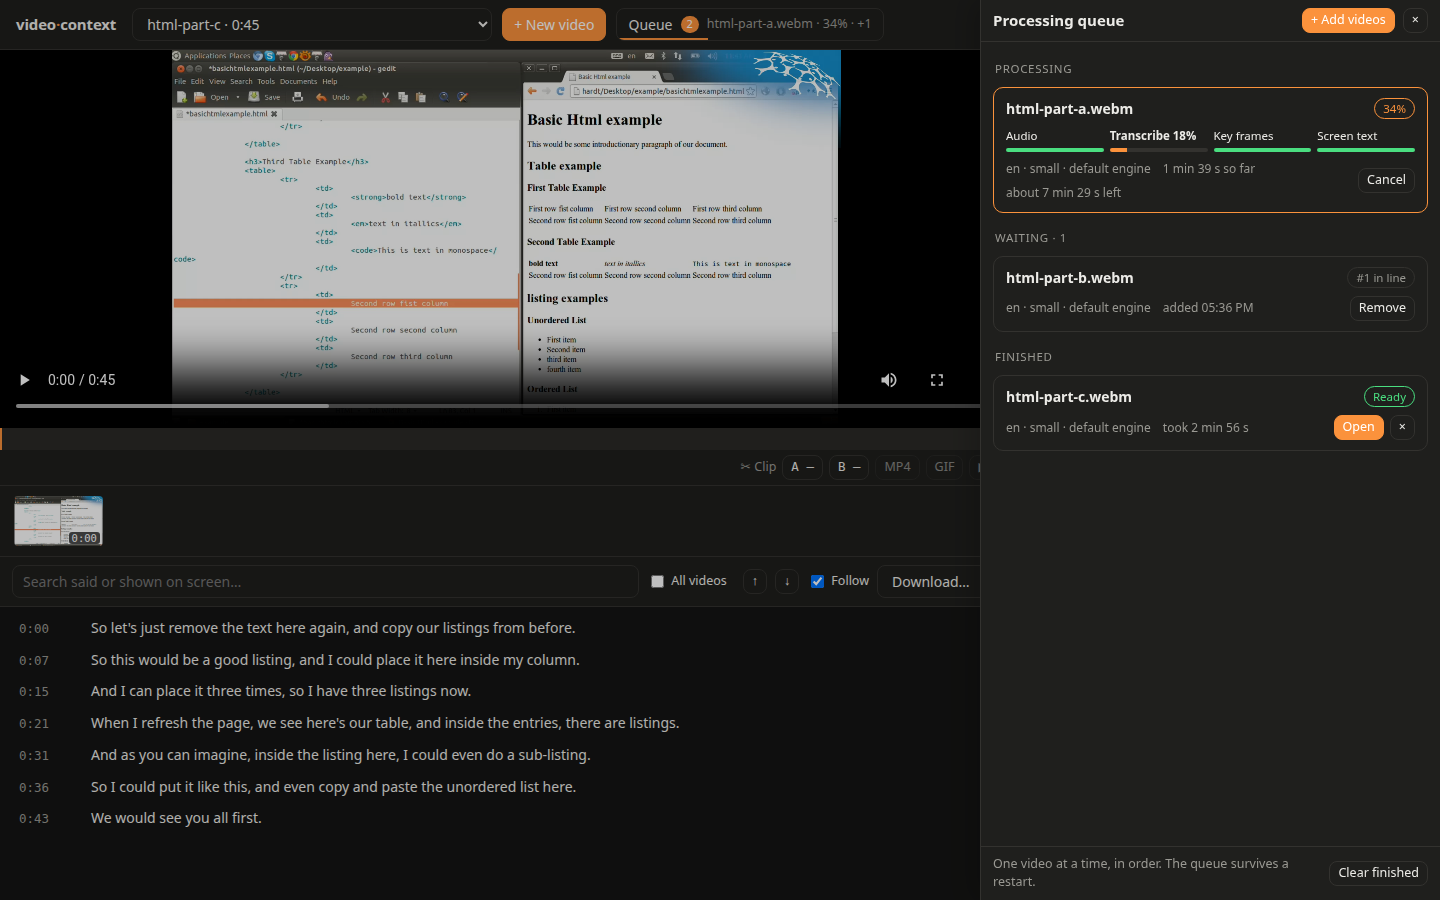
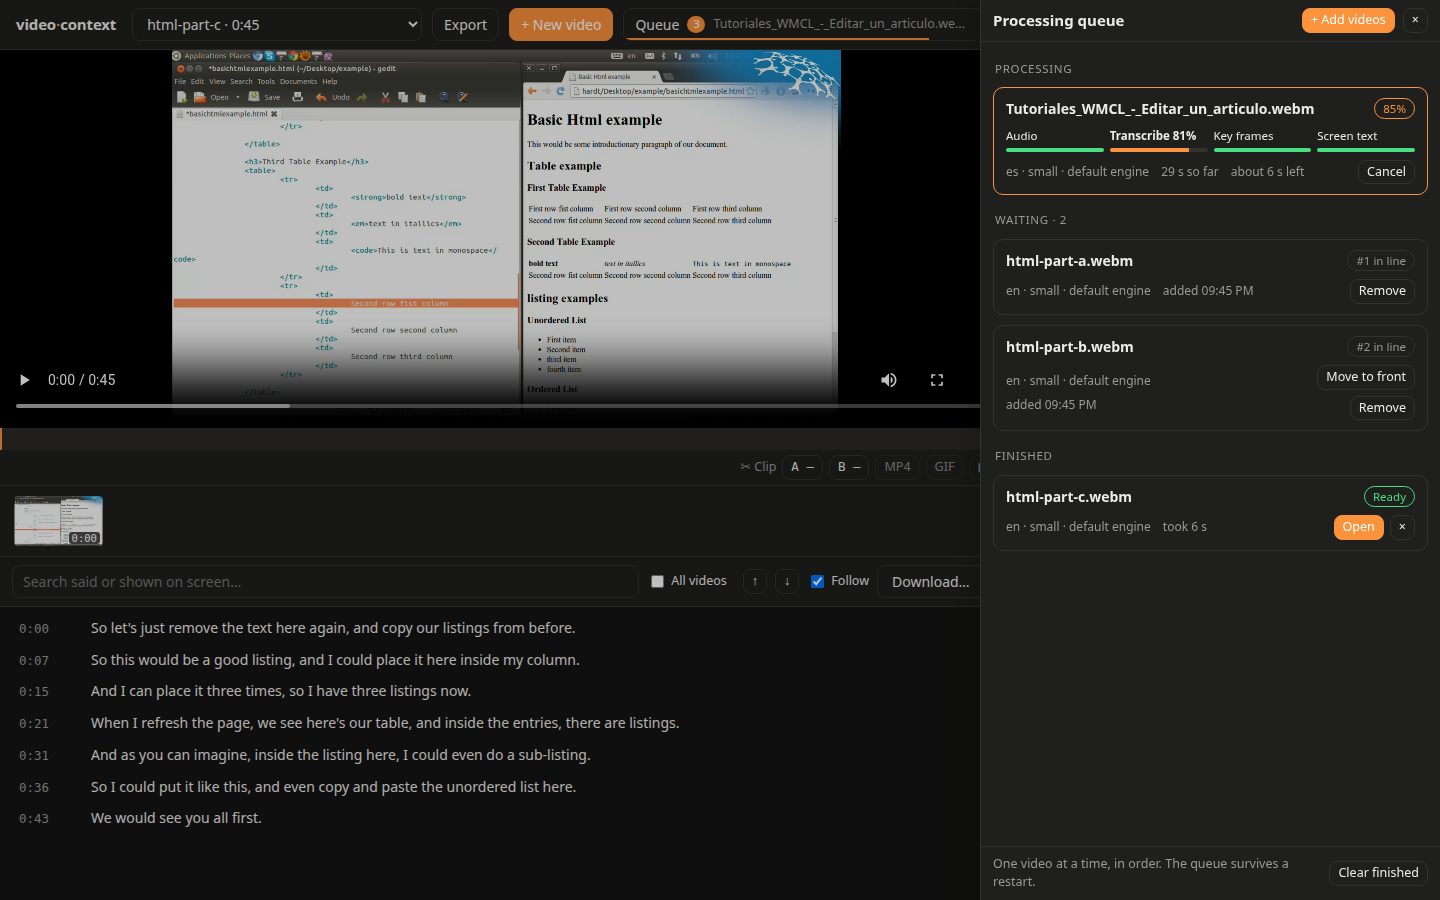
Docs: the queue, resuming, logs, export and import, with screenshots
docs/ui.md gains sections on adding videos (and importing), the queue,
what happens when processing stops halfway, the logs with the messages
that say what to fix, export and import, and where things are on disk.
New screenshots show two Wikimedia Commons videos: the HTML screencast
(CC BY-SA 3.0) and Wikimedia Chile's Spanish tutorial "Tutoriales WMCL -
Editar un artículo" (CC BY-SA 4.0), credited in the page.

The log file's path shows as ~/… in the page; an import that is not an
export logs its file instead of a stack.

diff --git a/src/ui.ts b/src/ui.ts
@@ -9,6 +9,7 @@ import { createReadStream, createWriteStream, existsSync, mkdirSync, readFileSyn
 import { createServer, type IncomingMessage, type ServerResponse } from 'node:http'
 import { basename, dirname, extname, join, normalize, resolve } from 'node:path'
 import { pipeline } from 'node:stream/promises'
+import { homedir } from 'node:os'
 import { fileURLToPath } from 'node:url'
 import { parseArgs } from 'node:util'
 
@@ -404,7 +405,7 @@ async function route(req: IncomingMessage, res: ServerResponse): Promise<void> {
   if (parts[0] !== 'api') return json(res, 404, { error: 'Not found.' })
 
   if (req.method === 'GET' && parts[1] === 'config' && parts.length === 2)
-    return json(res, 200, { claudeModels: CLAUDE_MODELS, whisperModels: MODELS, engines: ENGINES, claude: Boolean(claudeBinary()), logFile: LOG_FILE })
+    return json(res, 200, { claudeModels: CLAUDE_MODELS, whisperModels: MODELS, engines: ENGINES, claude: Boolean(claudeBinary()), logFile: LOG_FILE.startsWith(homedir()) ? `~${LOG_FILE.slice(homedir().length)}` : LOG_FILE })
 
   if (req.method === 'GET' && parts[1] === 'videos' && parts.length === 2)
     return json(res, 200, listVideos().map((m) => ({ id: m.id, title: m.title, duration: m.duration, createdAt: m.createdAt, source: m.source, available: existsSync(m.source) })))
@@ -518,7 +519,7 @@ async function route(req: IncomingMessage, res: ServerResponse): Promise<void> {
       return json(res, 200, result)
     } catch (error) {
       const message = error instanceof Error ? error.message : String(error)
-      log.error('import', `Could not import ${basename(file)}: ${message}`, error instanceof Error ? error.stack : undefined)
+      log.error('import', `Could not import ${basename(file)}: ${message}`, file)
       return json(res, 400, { error: message })
     }
   }

diff --git a/docs/ui.md b/docs/ui.md
@@ -5,11 +5,17 @@ npx -p @lalohao/video-context video-context-ui --open
 ```
 
 It opens `http://localhost:4317` (`--port` picks another) and lists the videos already
-processed, newest first. The screenshots below show
-[the screencast of the example](../examples/README.md),
-[Basic Introduction to HTML](https://commons.wikimedia.org/wiki/File:Basic_Introduction_to_HTML.webm)
-(© Renepick, [CC BY-SA 3.0](https://creativecommons.org/licenses/by-sa/3.0/); the screenshots
-are under the same license), with real answers from Claude Sonnet.
+processed, newest first.
+
+The screenshots below show two videos from Wikimedia Commons, with real results and real
+answers from Claude Sonnet; each screenshot is under the license of the video it shows:
+
+- [Basic Introduction to HTML](https://commons.wikimedia.org/wiki/File:Basic_Introduction_to_HTML.webm)
+  (the screencast of [the example](../examples/README.md); © Renepick,
+  [CC BY-SA 3.0](https://creativecommons.org/licenses/by-sa/3.0/)), in English, and pieces of it.
+- [Tutoriales WMCL - Editar un artículo](https://commons.wikimedia.org/wiki/File:Tutoriales_WMCL_-_Editar_un_art%C3%ADculo.webm)
+  (© Wikimedia Chile and Canzu Animation Studios,
+  [CC BY-SA 4.0](https://creativecommons.org/licenses/by-sa/4.0/)), in Spanish.
 
 ## Watch, read and ask
 
@@ -67,73 +73,121 @@ transcript and in the **Chapters** tab; the current one is named under the playe
   the deadline?"*). Claude finds the videos with the `search_videos` tool and cites each moment
   with the video's label, `[V2 0:19]`: the link opens that video there.
 
-## Processing videos: the queue
+## Adding videos
 
-![The queue: one video processing with the progress of each step, one waiting and one ready](images/ui-queue.png)
+![The dialog: a video to process and an export to import, with the spoken language, the whisper model and the engine](images/ui-new-video.png)
 
-**+ New video** adds videos to the queue: files dropped on the dialog (several at once; they
-are copied to `~/.cache/video-context/uploads`) or paths on this computer, one per line, with
-the spoken language, the whisper model and the engine. Videos are processed one at a time, in
-order, since whisper already uses every core.
+**+ New video** takes files dropped on the dialog (several at once; they are copied to
+`~/.cache/video-context/uploads`) or paths on this computer, one per line, with the spoken
+language, the whisper model and the engine. A video or audio file goes to the processing
+queue; a video-context export (`.zip`, see [below](#export-and-import)) is imported as it is,
+with nothing to process. A file already processed is ready at once (tick **Process again** to
+do it anyway).
 
-The **Queue** button at the top (or `Q`) says how many are left and how far the current one
-is, and opens the queue:
+## The queue
 
-- The video **processing** shows each step — the audio (or a model download), the
-  transcription, the key frames and the text on screen — with its progress, the time so far
+![The queue: a Spanish tutorial transcribing at 81 % with its steps and the time left, two pieces waiting, one ready](images/ui-queue.png)
+
+Videos are processed one at a time, in order, since whisper already uses every core. The
+**Queue** button at the top (or `Q`) says how many are left and how far the current one is
+(`Tutoriales_WMCL… · 85% · +2`), and opens the queue:
+
+- The video **processing** shows its four steps — the audio (or a model download), the
+  transcription, the key frames, the text on screen — each with its progress, the time so far
   and an estimate of the time left. **Cancel** stops it.
 - Videos **waiting** show their place in line: **Move to front** or **Remove**.
-- **Finished** ones: **Open** a ready video, **Retry** a failed one (its error is shown) or
-  **Process again** a canceled one. **Clear finished** empties that part of the list.
+- **Finished** ones: **Open** a ready one, **Retry** a failed one (its error is shown, and
+  **Logs** opens its entries), **Process again** a canceled one. **Clear finished** empties
+  that part of the list.
 
-A video already processed is ready at once. A message says when each video is ready (and
-opens it if none is open). The queue is kept in `~/.cache/video-context/queue.json`: if the
-page's server stops, the video that was processing starts again, and the rest wait their turn.
+A message says when each video is ready, and opens it if none is open. The queue is kept in
+`~/.cache/video-context/queue.json`: closing the page changes nothing, and if the server
+stops, the video that was processing starts again when it starts, and the rest wait their turn.
 
-A video that stopped halfway (the server died or was closed, or it was canceled) does not
-start over: the steps it finished are kept in its folder until it is done — the audio, the
-transcript, the key frames and their text — and only the rest is done again, as long as the
-language, the model and the engine are the same. A transcription stopped in the middle is
-done again from its start. If the server died, the tools it left running (ffmpeg, whisper)
-are stopped when it starts again.
+### When processing stops halfway
+
+A video that stopped halfway — the server crashed or was closed, or it was canceled — does not
+start over. The steps it finished stay in its folder until it is done (the audio, the
+transcript, the key frames and their text), and the next attempt only does the rest:
+
+```
+Tutoriales_WMCL….webm was processing when the server stopped: it starts again from the steps it finished
+Tutoriales_WMCL….webm: Audio kept from the last attempt.
+Tutoriales_WMCL….webm: Transcribing…
+Tutoriales_WMCL….webm: Key frames kept from the last attempt.
+Tutoriales_WMCL….webm: Text on screen kept from the last attempt.
+```
+
+They are kept only for the same language, whisper model and engine; with others it starts
+over. A transcription stopped in the middle is done again from its start (whisper cannot go
+on from where it was). If the server crashed, the tools it left running (ffmpeg, whisper,
+tesseract) are stopped when it starts again, after checking they are still those tools.
 
 ## Logs
 
-The **Logs** button at the top (or `Shift+L`) opens what the server did and what failed:
-processing steps, chapters, chat questions, clips and uploads. A red count says how many
-errors are new. Filter by level, by source or by text; an entry with details (Claude's
-answer, a tool's error output) opens with a click, and **Copy** takes the entries shown.
-Errors in the page link to their entries ("See the logs"). Everything is also written to
-`~/.cache/video-context/logs/ui.log`.
+![The logs: each video's steps, the chapters made by Claude with their cost, and a failed import](images/ui-logs.png)
 
-When Claude cannot answer, the error says why, and what to do when it can be fixed: an expired
-session is solved with `claude auth login` in a terminal.
+The **Logs** button at the top (or `Shift+L`) shows what the server did and what failed:
+the steps of each video, chapters, chat questions and answers (with their time and cost),
+clips, uploads, exports and imports. A red count on the button says how many errors are new.
+Filter by level, by source or by text; an entry with details — Claude's answer, a tool's
+error output — opens with a click, and **Copy** takes the entries shown (to paste in an
+issue). Errors in the page link to their entries (**See the logs**). Everything is also
+written to `~/.cache/video-context/logs/ui.log`, which outlives the server.
+
+When something fails, the message says why, and what to do when it can be fixed:
+
+| Message | What to do |
+| --- | --- |
+| `Failed to authenticate: OAuth session expired…` | Sign in to Claude again: `claude auth login` in a terminal. |
+| `…rate limit…` / `…usage limit…` | Wait a moment, or pick another model at the top. |
+| `ffprobe failed … Invalid data found when processing input` | The file is not a video or audio file ffmpeg reads, or it is damaged. |
+| `Missing: …` | A tool is not installed: run `video-context --doctor`. |
+| `This ZIP file is not a video-context export` | Only ZIP files made with **Export** can be imported. |
 
 ## Export and import
 
-![An exported video opened from its folder: no server, no Claude, the rest as in the page](images/ui-export.png)
+![The Spanish tutorial exported and opened from its folder: its chapters, notes, frames and transcript, without a server](images/ui-export.png)
 
-**Export** (at the top) downloads the open video as a ZIP file, to hand to someone who then
-needs nothing processed. Inside one folder:
+**Export** (at the top) downloads the open video as one ZIP file, to hand to someone who then
+needs nothing processed — no whisper, no waiting. The archive holds one folder:
 
 | File | What it is |
 | --- | --- |
 | `index.html` | This page with the video's data inside: open it from the folder, in any browser. Nothing to install, no server. |
 | `video.<ext>` | The video. |
-| `transcript.md`, `.srt`, `.json` | The transcript with its times. |
+| `transcript.md`, `.srt`, `.json` | The transcript with its times (the `.srt` works in any player). |
 | `frames/` | The key frames. |
 | `chapters.json`, `notes.json` | The chapters and the notes. |
 | `manifest.json`, `video-context.json` | What video-context needs to import it back. |
+| `README.txt` | How to open it and how to import it. |
 
-The exported page plays the video with the transcript following it, its subtitles (CC), the
-key frames, the chapters and the search; notes can be added there (they stay in that browser,
-and **Export Markdown** takes them out), and clips marked and played. Asking Claude, the queue,
-the logs, generating chapters and downloading clips need the server, and are not there.
+The ZIP is written as it downloads (a large video is not copied first); files past 4 GB are
+fine (ZIP64), and any unzip tool opens it.
 
-To add an export to video-context: **+ New video** and drop the ZIP file (or type its path).
-The video is copied to `~/.cache/video-context/imports` and is ready at once, with its
-chapters and notes, without processing it again. The ZIP is written as it downloads (a large
-video is not copied first), and files past 4 GB are fine (ZIP64).
+**The exported page** plays the video with the transcript following it, its subtitles (CC),
+the key frames, the chapters and the search, just as here. Notes can be added there (they stay
+in that browser; **Export Markdown** takes them out), and clips marked and played. What needs
+this server is not there: asking Claude, the queue, the logs, generating chapters,
+downloading clips. It opens with a double click: no server, no internet.
+
+**Importing**: **+ New video** and drop the ZIP file (or type its path). The video is copied
+to `~/.cache/video-context/imports`, and its transcript, frames, chapters and notes go where
+processing would have put them: it is ready at once, never processed again, and Claude can be
+asked about it. Importing the same export twice does nothing the second time. Only the files
+an export has are taken from the archive, and only to their own places.
+
+## Where things are
+
+Everything stays in `~/.cache/video-context` (`VIDEO_CONTEXT_HOME` picks another folder):
+
+| Path | What it is |
+| --- | --- |
+| `videos/<id>/` | A processed video's results: `manifest.json`, `transcript.*`, `frames/`, and from the page `chapters.json`, `notes.json`, `clips/` (`unfinished.json` while it is not done). |
+| `queue.json` | The processing queue. |
+| `logs/ui.log` | The log (moved to `ui.log.1` past 5 MB). |
+| `uploads/` | Files dropped on the page, processed from there. |
+| `imports/` | The videos of imported exports. |
 
 ## Keys
 

diff --git a/README.md b/README.md
@@ -136,6 +136,9 @@ and engine you pick; the queue shows each step's progress, and can cancel, retry
 - **Notes**: write one at the current time (`N`), bookmark it (`B`), or save an answer from the
   chat; they are kept next to the video (`notes.json`) and exported to Markdown with the
   chapters and the conversation.
+- **Queue and logs**: videos are processed one after another, each step with its progress; a
+  video stopped halfway (even by a crash) goes on from the steps it finished. The logs say
+  what failed and how to fix it.
 - **Export**: the video as a ZIP file with its transcript, frames, chapters, notes and an
   `index.html` that opens without a server; dropped on another video-context, it is ready
   without processing it again.
